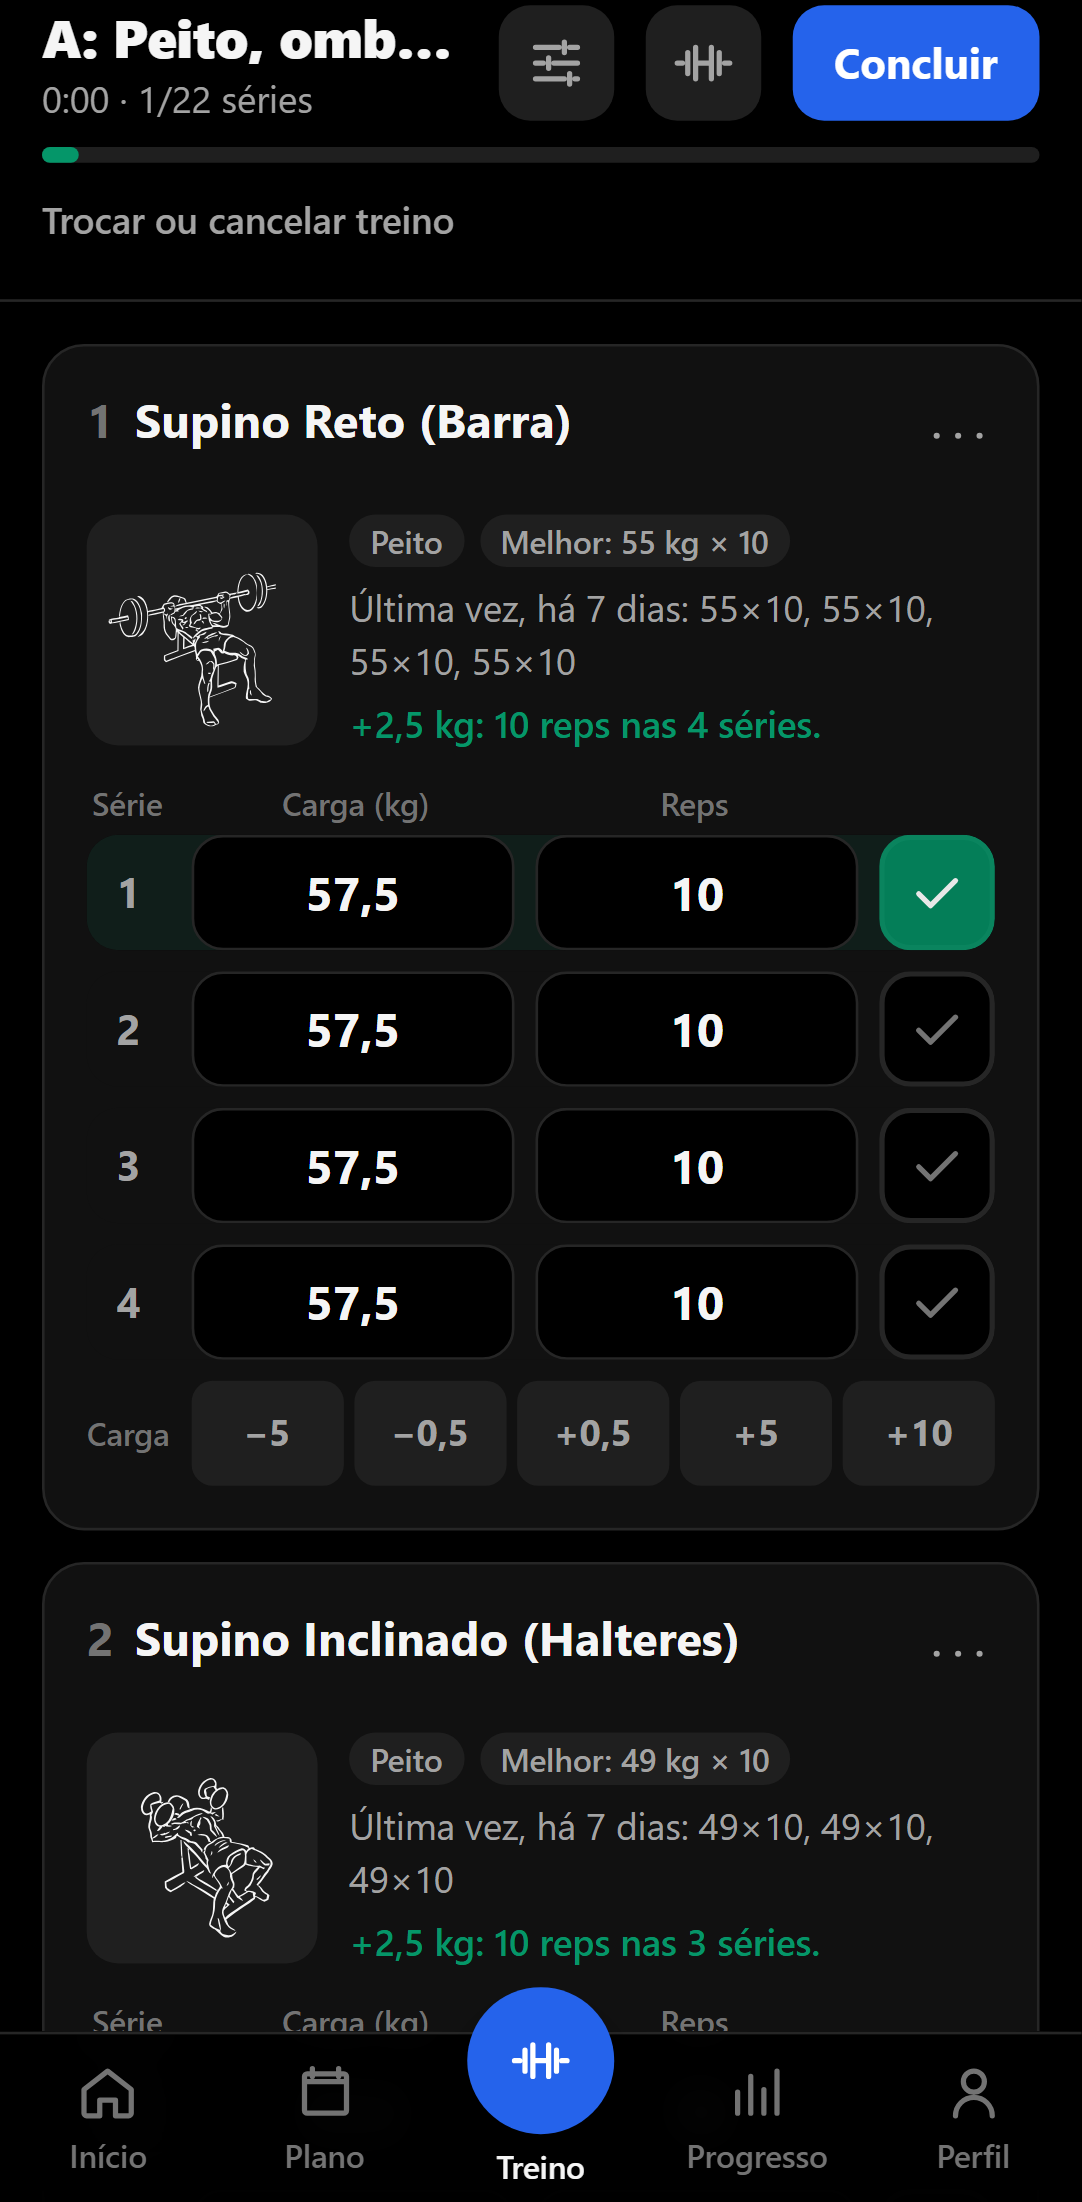
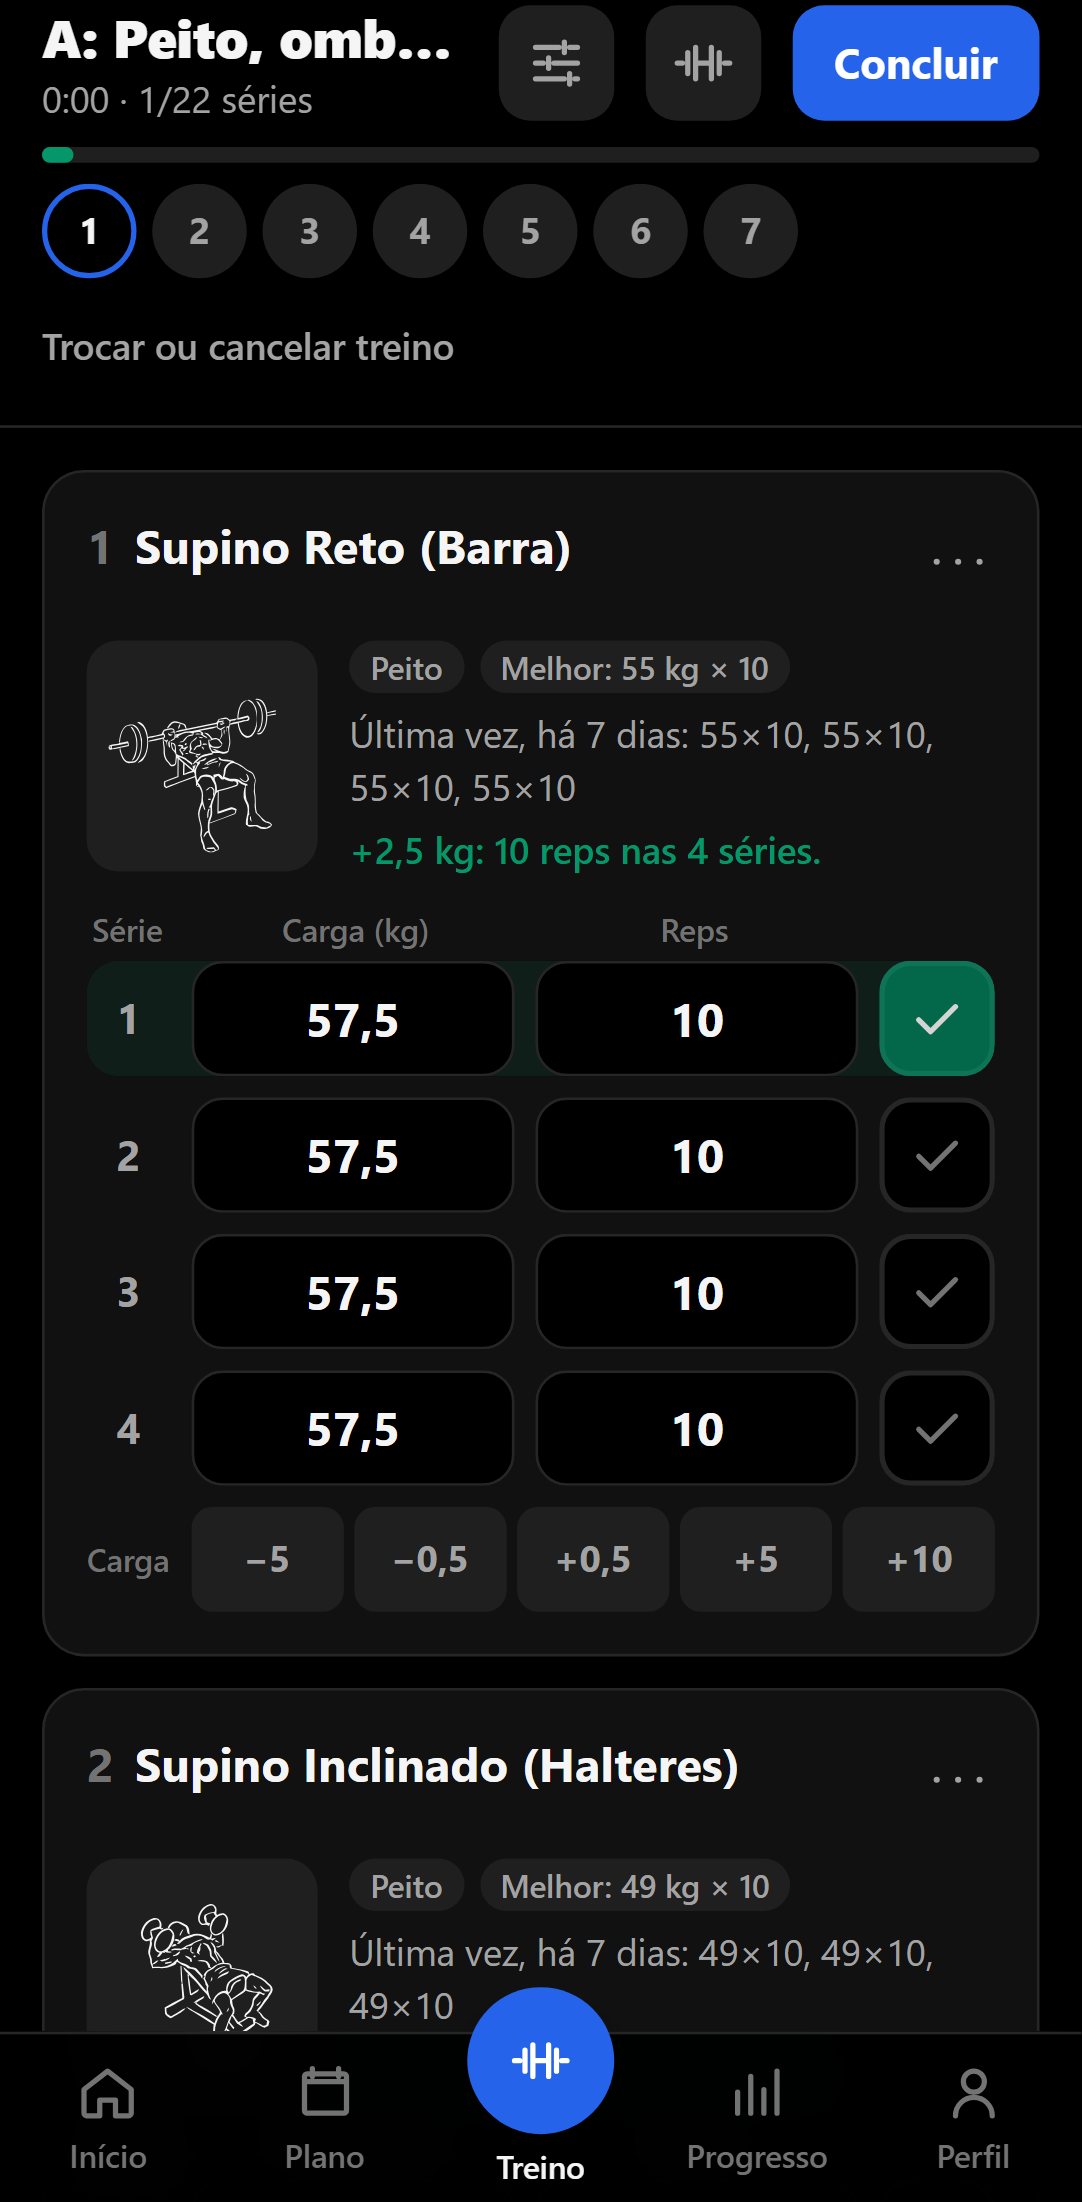
docs: capturas do README atualizadas, com as medidas do corpo

diff --git a/app/scripts/screenshots/readme-screens.spec.ts b/app/scripts/screenshots/readme-screens.spec.ts
@@ -61,6 +61,11 @@ function demoData(): AppData {
     weighIns: Array.from({ length: 8 }, (_, i) => ({ date: addDays(today, -49 + i * 7), weight: Math.round((69 - i * 0.4) * 10) / 10 }))
   };
   for (let d = -6; d <= 0; d++) data.water[addDays(today, d)] = d === 0 ? 1250 : 2200;
+  data.measurements = {
+    [addDays(today, -42)]: { cintura: 78, quadril: 99, braco: 27.5, coxa: 56, gordura: 27 },
+    [addDays(today, -21)]: { cintura: 76.5, quadril: 98, braco: 28, coxa: 56.5, gordura: 25.5 },
+    [addDays(today, -1)]: { cintura: 75, quadril: 97, braco: 28.5, coxa: 57, gordura: 24 }
+  };
   data.settings = { ...data.settings, trainingReminders: false };
   data.meta = { ...data.meta, lastSeenVersion: pkg.version, lastBackupAt: NOW.toISOString(), hintsSeen: { welcome: true, progressao: true, iosInstall: true } };
   return data;
@@ -105,6 +110,12 @@ test('capturas do README', async ({ page }) => {
   await page.getByRole('button', { name: 'Progresso', exact: true }).click();
   await page.evaluate(() => window.scrollTo(0, 0));
   await shot(page, 'progresso');
+
+  // medidas do corpo, na aba Metas, com o gráfico da cintura aberto
+  await page.getByRole('tab', { name: 'Metas' }).click();
+  await page.getByRole('button', { name: /^Cintura/ }).click();
+  await page.getByLabel('Medidas do corpo').scrollIntoViewIfNeeded();
+  await shot(page, 'medidas');
 });
 
 test('tema claro', async ({ page }) => {

diff --git a/README.md b/README.md
@@ -19,16 +19,18 @@ offline, não tem anúncios nem cadastro, e os dados ficam no seu aparelho.
   calculadora de anilhas.
 - **Progressão automática de carga:** o treino abre com a carga sugerida pelo histórico e uma
   linha dizendo o porquê ("+2,5 kg: 12 reps nas 3 séries"). Dá para preferir a carga da última vez
-  ou a do plano.
+  ou a do plano. Nos exercícios com o peso do corpo, quem sobe são as repetições.
 - **Evolução:** recordes por 1RM estimado, gráfico por exercício, volume semanal, séries por
   grupo muscular e mapa de calor dos últimos meses.
-- **Peso e saúde:** pesagens com meta, IMC, metabolismo basal, gasto diário e água.
+- **Peso, medidas e saúde:** pesagens com meta, medidas do corpo (cintura, braço, % de gordura…) com
+  gráfico, IMC, metabolismo basal, gasto diário e água.
 - **Motivação:** sequência de treinos, níveis, XP e conquistas.
 - **Seus dados:** backup em arquivo (com senha opcional) e backup automático no Android.
 - Tema claro e escuro, e gestos para apagar ou copiar séries.
 
 <p align="center">
   <img src="docs/screenshots/progresso.png" alt="Progresso: estatísticas, mapa de calor e volume semanal" width="220">
+  <img src="docs/screenshots/medidas.png" alt="Medidas do corpo com a variação e o gráfico da cintura" width="220">
   <img src="docs/screenshots/inicio-claro.png" alt="Tela de Início no tema claro" width="220">
 </p>
 
